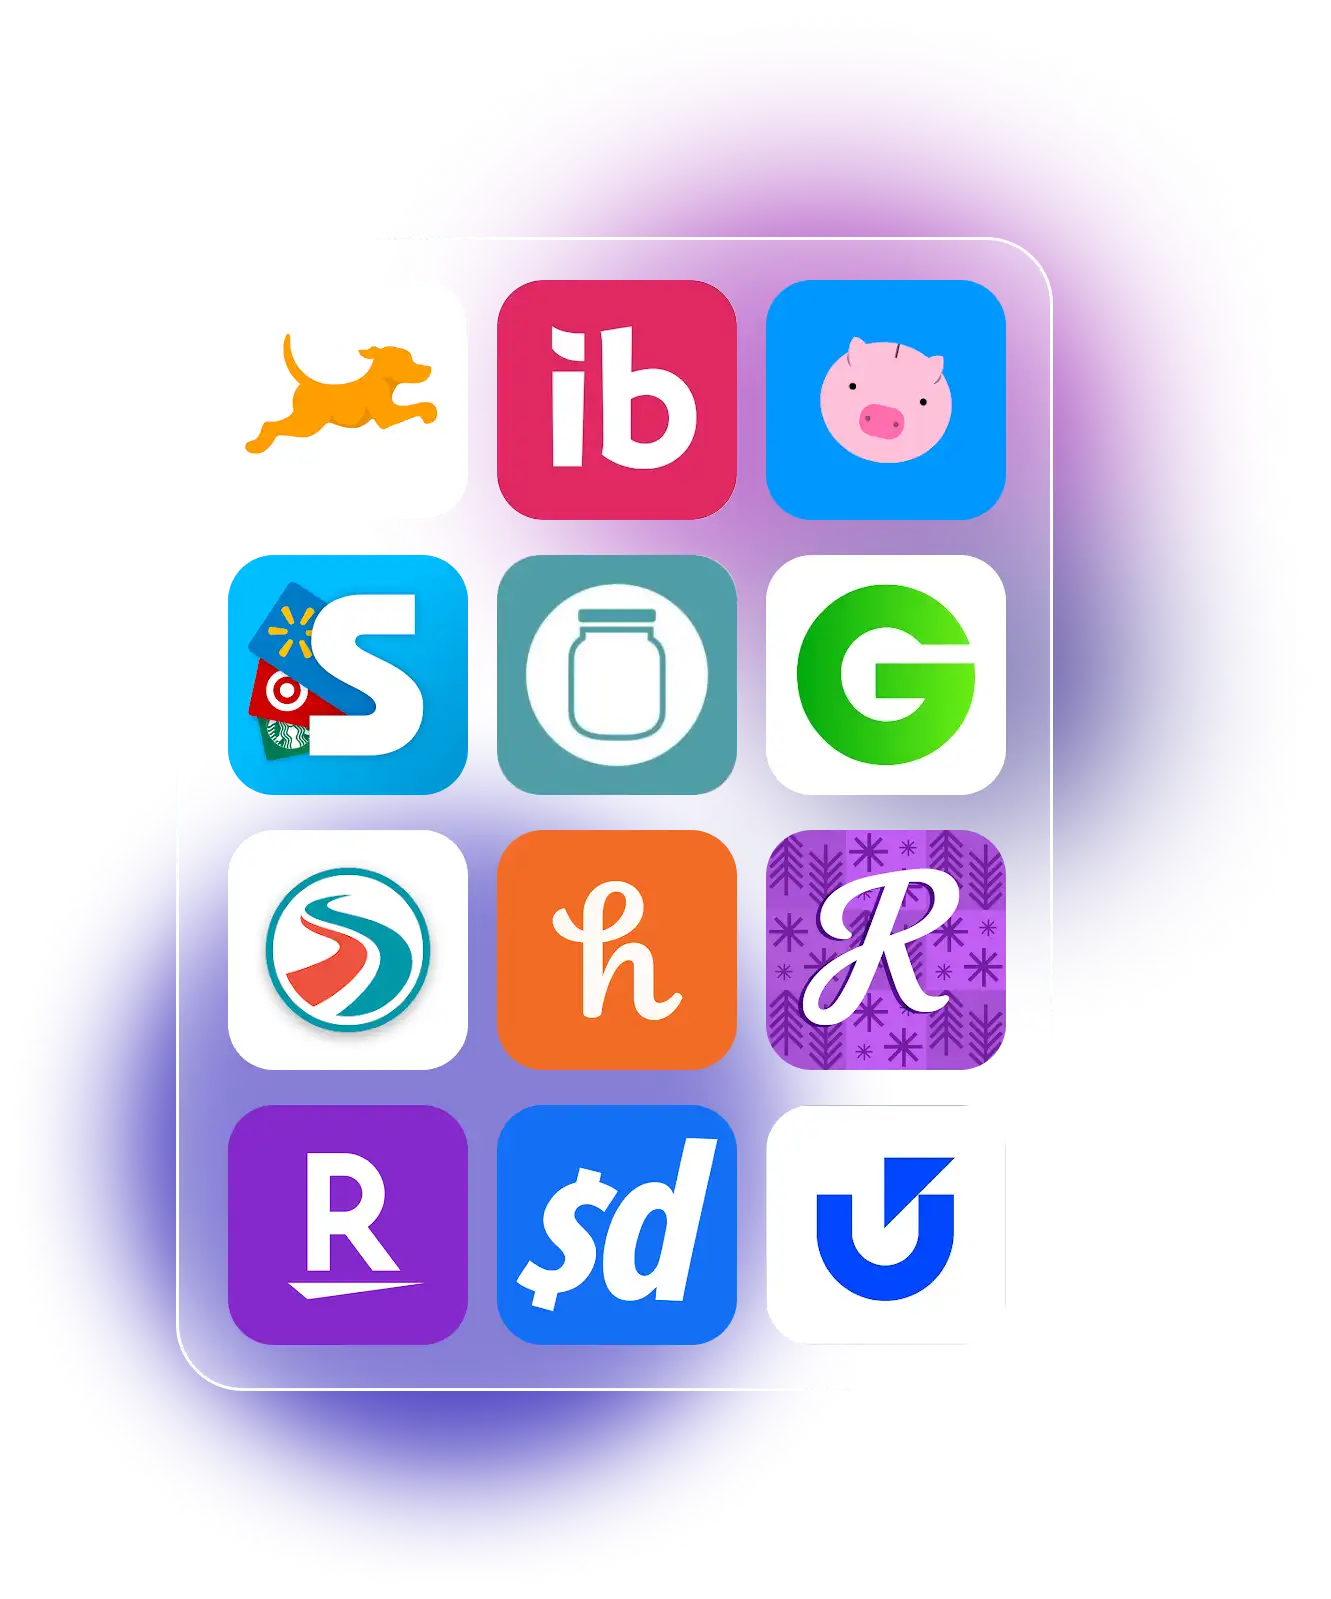
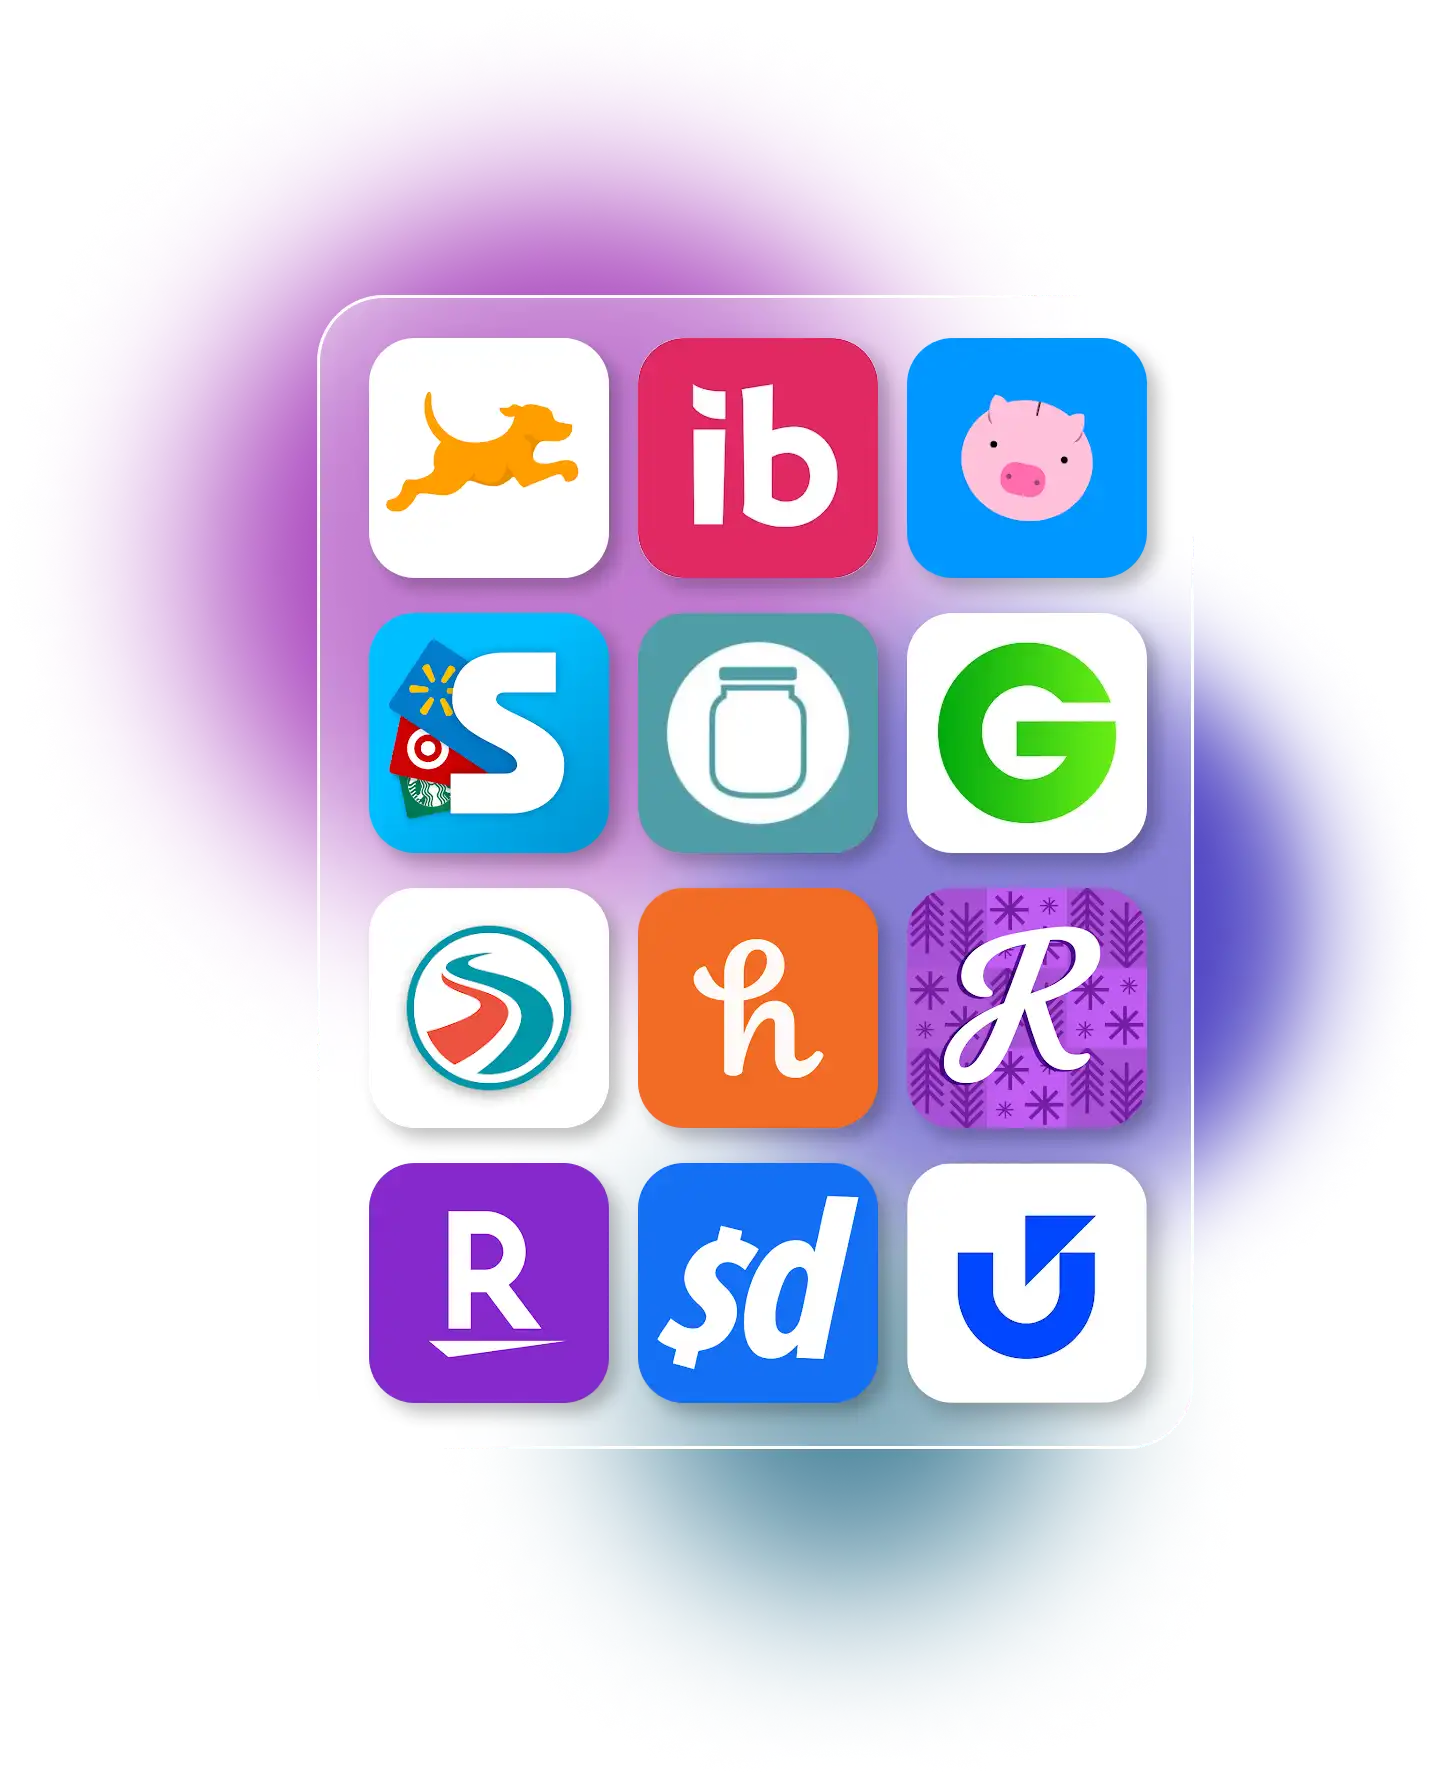
Updated photos for competitive analysis and branding.

diff --git a/mobileshopping.html b/mobileshopping.html
@@ -409,7 +409,7 @@
       <div class="row">
         <!-- Image first Column  -->
         <div class="six columns subsection project-img">
-          <img src="images/mobileshopping/goodonyou.png" class="showcase-img">
+          <img src="images/mobileshopping/branding.webp" class="showcase-img">
         </div>
 
         <!-- Text first Column  -->
